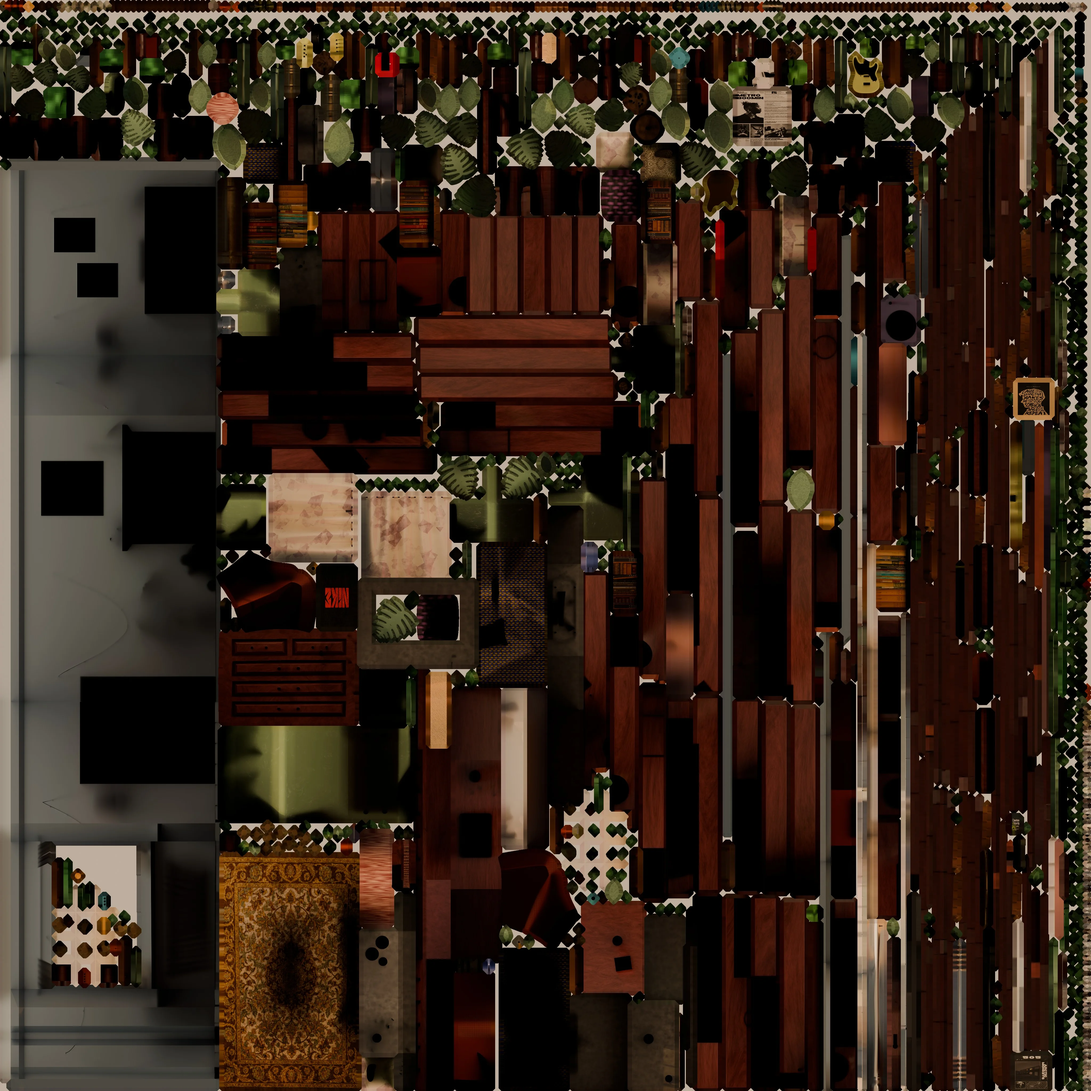
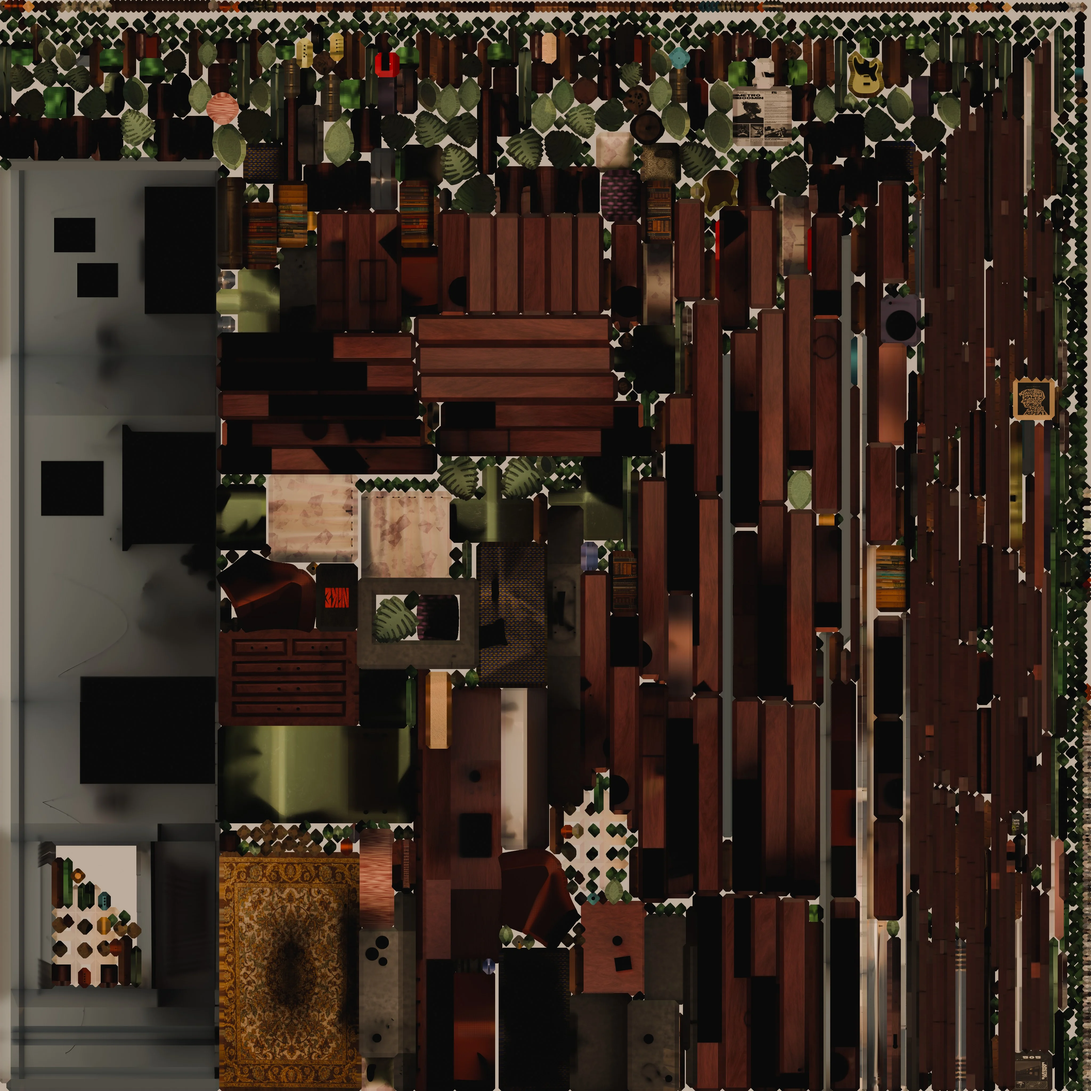
Fixed few stuffs and added the toggle music button with features

diff --git a/src/index.html b/src/index.html
@@ -9,6 +9,44 @@
   <body>
     <canvas class="webgl"></canvas>
     <div class="loading-bar"></div>
+    <button id="toggle">
+      <svg viewBox="0 0 24 24" fill="none" xmlns="http://www.w3.org/2000/svg">
+        <g id="SVGRepo_bgCarrier" stroke-width="0"></g>
+        <g
+          id="SVGRepo_tracerCarrier"
+          stroke-linecap="round"
+          stroke-linejoin="round"
+        ></g>
+        <g id="SVGRepo_iconCarrier">
+          <path
+            d="M12.5 8.89001V18.5M12.5 8.89001V5.57656C12.5 5.36922 12.5 5.26554 12.5347 5.17733C12.5653 5.09943 12.615 5.03047 12.6792 4.97678C12.752 4.91597 12.8503 4.88318 13.047 4.81761L17.447 3.35095C17.8025 3.23245 17.9803 3.17319 18.1218 3.20872C18.2456 3.23982 18.3529 3.31713 18.4216 3.42479C18.5 3.54779 18.5 3.73516 18.5 4.10989V7.42335C18.5 7.63069 18.5 7.73436 18.4653 7.82258C18.4347 7.90048 18.385 7.96943 18.3208 8.02313C18.248 8.08394 18.1497 8.11672 17.953 8.18229L13.553 9.64896C13.1975 9.76746 13.0197 9.82671 12.8782 9.79119C12.7544 9.76009 12.6471 9.68278 12.5784 9.57512C12.5 9.45212 12.5 9.26475 12.5 8.89001ZM12.5 18.5C12.5 19.8807 10.933 21 9 21C7.067 21 5.5 19.8807 5.5 18.5C5.5 17.1192 7.067 16 9 16C10.933 16 12.5 17.1192 12.5 18.5Z"
+            stroke="#000000"
+            stroke-width="2"
+            stroke-linecap="round"
+            stroke-linejoin="round"
+          ></path>
+        </g>
+      </svg>
+
+      <svg viewBox="0 0 24 24" fill="none" xmlns="http://www.w3.org/2000/svg">
+        <g id="SVGRepo_bgCarrier" stroke-width="0"></g>
+        <g
+          id="SVGRepo_tracerCarrier"
+          stroke-linecap="round"
+          stroke-linejoin="round"
+        ></g>
+        <g id="SVGRepo_iconCarrier">
+          <path
+            d="M12.5 6.8935V5.57661C12.5 5.36926 12.5 5.26559 12.5347 5.17738C12.5653 5.09948 12.615 5.03052 12.6792 4.97682C12.752 4.91601 12.8503 4.88323 13.047 4.81766L17.447 3.35099C17.8025 3.23249 17.9803 3.17324 18.1218 3.20877C18.2456 3.23987 18.3529 3.31718 18.4216 3.42484C18.5 3.54783 18.5 3.7352 18.5 4.10994V7.42339C18.5 7.63074 18.5 7.73441 18.4653 7.82262C18.4347 7.90052 18.385 7.96948 18.3208 8.02318C18.248 8.08399 18.1497 8.11677 17.953 8.18234L14.8192 9.22692M12.5 12.5V18.5M12.5 18.5C12.5 19.8807 10.933 21 9 21C7.067 21 5.5 19.8807 5.5 18.5C5.5 17.1193 7.067 16 9 16C10.933 16 12.5 17.1193 12.5 18.5ZM3 3L21 21"
+            stroke="#000000"
+            stroke-width="2"
+            stroke-linecap="round"
+            stroke-linejoin="round"
+          ></path>
+        </g>
+      </svg>
+    </button>
+
     <script type="module" src="./script.js"></script>
   </body>
 </html>

diff --git a/src/managers/VinylPlayerManager.js b/src/managers/VinylPlayerManager.js
@@ -9,6 +9,41 @@ const backgroundMusic = new Howl({
 
 Howler.volume(0.4);
 
+// Simple synchronized state
+let isMusicPlaying = false;
+let vinylPlayerInstance = null; // We'll store the vinyl player instance here
+
+const soundToggle = document.querySelector("#toggle");
+
+const toggleMusic = () => {
+  isMusicPlaying = !isMusicPlaying;
+
+  if (isMusicPlaying) {
+    backgroundMusic.play();
+    document.body.classList.add("on");
+    soundToggle.classList.add("active");
+
+    // Start vinyl animation if vinyl player exists
+    if (vinylPlayerInstance && !vinylPlayerInstance.state.isPlaying) {
+      vinylPlayerInstance.start();
+      vinylPlayerInstance.state.isPlaying = true;
+    }
+  } else {
+    backgroundMusic.pause();
+    document.body.classList.remove("on");
+    soundToggle.classList.remove("active");
+
+    // Stop vinyl animation if vinyl player exists
+    if (vinylPlayerInstance && vinylPlayerInstance.state.isPlaying) {
+      vinylPlayerInstance.stop();
+      vinylPlayerInstance.state.isPlaying = false;
+    }
+  }
+};
+
+// Toggle button event listener
+soundToggle.addEventListener("click", toggleMusic);
+
 export class VinylPlayerManager {
   constructor() {
     this.vinylDisc = null;
@@ -21,6 +56,9 @@ export class VinylPlayerManager {
       armAnimation: null,
       discAnimation: null,
     };
+
+    // Register this instance globally
+    vinylPlayerInstance = this;
   }
 
   // Initialize with the vinyl objects from the GLTF model
@@ -48,13 +86,8 @@ export class VinylPlayerManager {
 
   // Handle click on vinyl player
   handleClick() {
-    if (this.state.isPlaying) {
-      this.stop();
-    } else {
-      this.start();
-    }
-    this.state.isPlaying = !this.state.isPlaying;
-
+    // Simply call the global toggle function
+    toggleMusic();
     this.flashCursor();
   }
 
@@ -68,6 +101,7 @@ export class VinylPlayerManager {
     // Start disc rotation
     this.state.discAnimation = gsap.to(this.vinylDisc.rotation, {
       y: Math.PI * 2,
+      delay: 2,
       duration: 4,
       repeat: -1,
       ease: "power2.inOut",
@@ -86,9 +120,6 @@ export class VinylPlayerManager {
         duration: 1,
         ease: "power2.out",
       });
-
-    // Play the backgroundMusic
-    backgroundMusic.play();
   }
 
   // Stop vinyl player animation
@@ -126,9 +157,6 @@ export class VinylPlayerManager {
           ease: "power2.out",
         });
     }
-
-    // Stop the backgroundMusic
-    backgroundMusic.pause();
   }
 
   // Check if an object is part of the vinyl player

diff --git a/src/style.css b/src/style.css
@@ -43,3 +43,44 @@ body {
     transform-origin: top right;
     transition: transform 1.0s ease-in-out;
 }
+
+#toggle {
+    display: flex;
+    justify-content: center;
+    align-items: center;
+    position: fixed;
+    top: 3rem;
+    right: 2rem;
+    width: 2.5rem;
+    height: 2.5rem;
+    border-radius: 8px;
+    outline: 0.4rem solid rgb(43, 36, 96);
+    padding: 5px 7px;
+    background-color: #ffffff;
+    cursor: pointer;
+    z-index: 2;
+}
+
+@media screen and (max-width: 600px) {
+    #toggle {
+        top: 3rem;
+        right: 1.3rem;
+    }
+}
+
+#toggle svg {
+    fill: #ffffff;
+
+}
+
+#toggle svg:last-child {
+    display: none;
+}
+
+.on #toggle svg:first-child {
+    display: none;
+}
+
+.on #toggle svg:last-child {
+    display: block;
+}

diff --git a/src/script.js b/src/script.js
@@ -121,7 +121,7 @@ const bakedMaterial = new THREE.ShaderMaterial({
   uniforms: {
     uDayTexture: new THREE.Uniform(bakedDayTexture),
     uNightTexture: new THREE.Uniform(bakedNightTexture),
-    uNightMix: new THREE.Uniform(0),
+    uNightMix: new THREE.Uniform(1),
   },
 });
 
@@ -284,6 +284,9 @@ controls.update();
 
 if (window.innerWidth < 786) {
   gui.width = window.innerWidth - 100;
+
+  controls.enablePan = false;
+
   // Mobile
   camera.position.set(8.221521463083404, 7.027146726208887, 10.037595818238497);
   controls.target.set(
